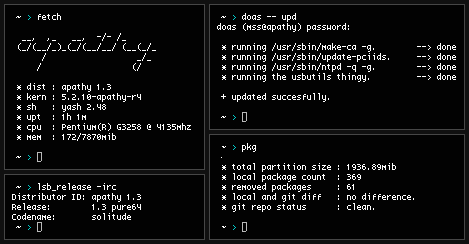
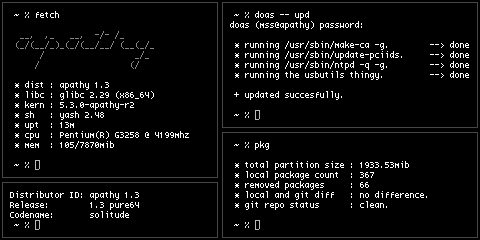
upd: readme, fetch asset.

Changed region(s): [[0.0, 0.0, 1.0, 0.9917], [0.0597, 0.2625, 0.0896, 0.2917]]

diff --git a/README.md b/README.md
@@ -59,7 +59,7 @@ based on what i've filtered off of `parabola gnu/linux`' `blacklist.txt` multipl
 ```
 ~ > pkg
 
- * total partition size	: 1945.78mib
+ * total partition size	: 1933.53mib
  * local package count	: 367
  * removed packages	: 66
 
